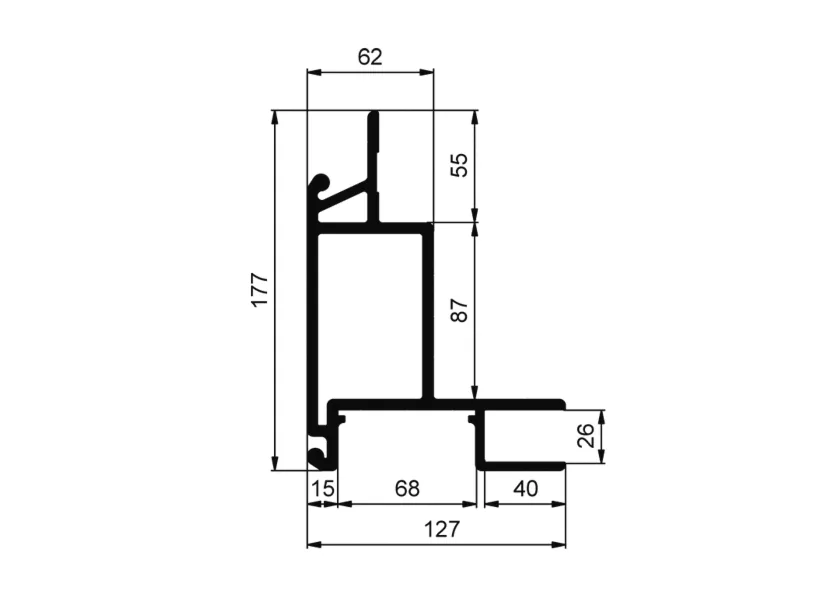
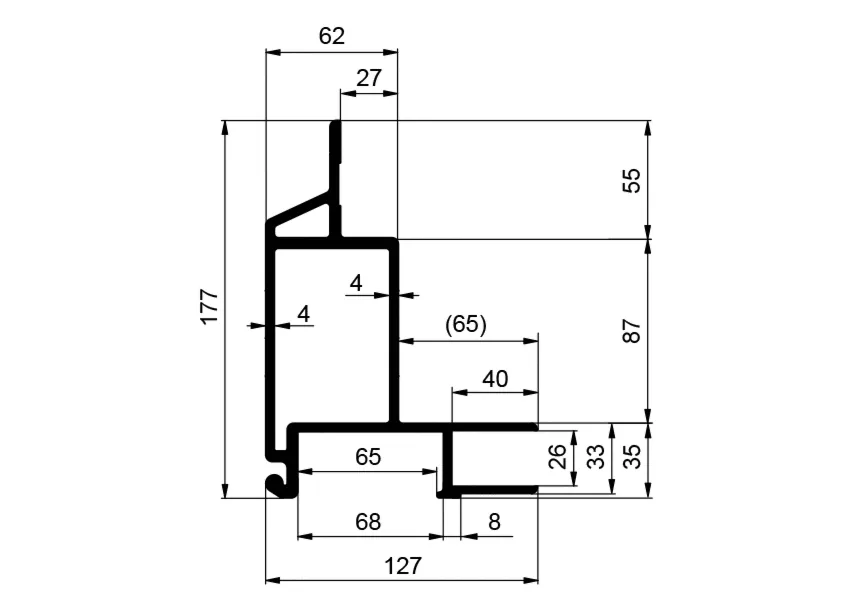
MAX-os első oszlopok: a rajz az Alu-SV 662AP17730 részletesen méretezett rajza
Claude-Session: https://claude.ai/code/session_01GqcGcrqDWYvNfyrVUkczEM

Changed region(s): [[0.2185, 0.0298, 0.7803, 0.9834]]

diff --git a/scripts/termekadatok/alusv.py b/scripts/termekadatok/alusv.py
@@ -72,15 +72,16 @@ EXTRA = {
     # a Quadris kérésére: 6613576 (MINI első FLAT oszlop) = „Pillar CS MINI profile head-on 2023 anod”
     "6613576": "6612014347",
 }
-# a Quadris kérésére minden MAX-os első oszlop a „Pillar profile CS MAX front” (66OAP17714) méretezett rajzát
+# a Quadris kérésére minden MAX-os első oszlop a „Pillar pr. CS MAX front 3000mm, Al anod” (662AP17730) részletesen
+# méretezett rajzát
 # kapja; a többi adat (tömeg, hossz, felület) az azonos hosszúságú, eloxált MAX front tételé (None: csak az anyag)
 # ugyanígy a MAX-os hátsó oszlopok (3000 és 3300 mm) a 3150 mm-es „Pillar profile CS MAX rear” (66OZ035255) rajzát
-IMAGE_ONLY = {"66177137": "66OAP17714", "66177147": "66OAP17714", "66177300": "66OAP17714",
+IMAGE_ONLY = {"66177137": "662AP17730", "66177147": "662AP17730", "66177300": "662AP17730",
               "6635245": "66OZ035255", "6635300": "66OZ035255"}
 DATA_FROM = {"66177147": "662AP17730", "66177137": "662AP17714", "66177300": "662AP17712",
              "6635245": "662AZ03025", "6635300": "662AZ03526"}
 # a profil befoglaló méretei a rajz szerint (a hosszváltozatok adatlapján nem mindig szerepelnek)
-PROFILE_SIZE = {"66OAP17714": {"Szélesség": "127,0 mm", "Magasság": "177,0 mm"},
+PROFILE_SIZE = {"662AP17730": {"Szélesség": "127,0 mm", "Magasság": "177,0 mm"},
                 "66OZ035255": {"Szélesség": "265,0 mm", "Magasság": "35,0 mm"}}
 
 
